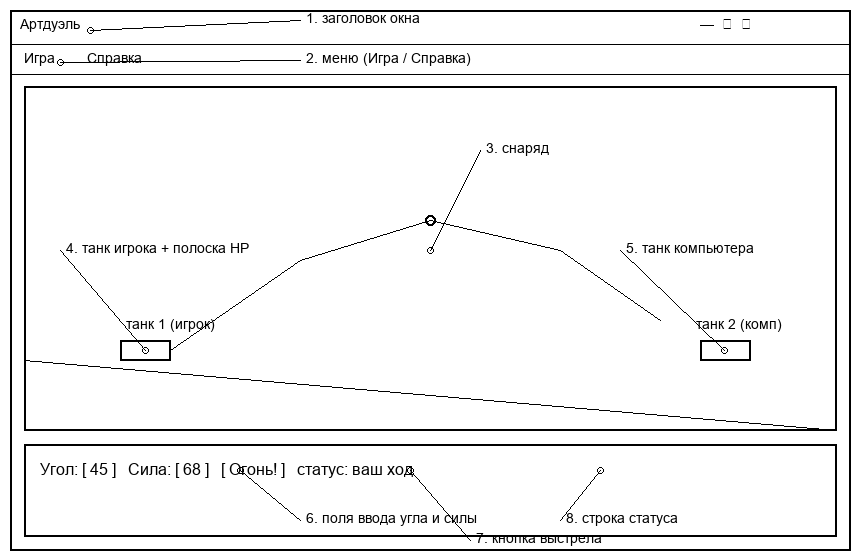
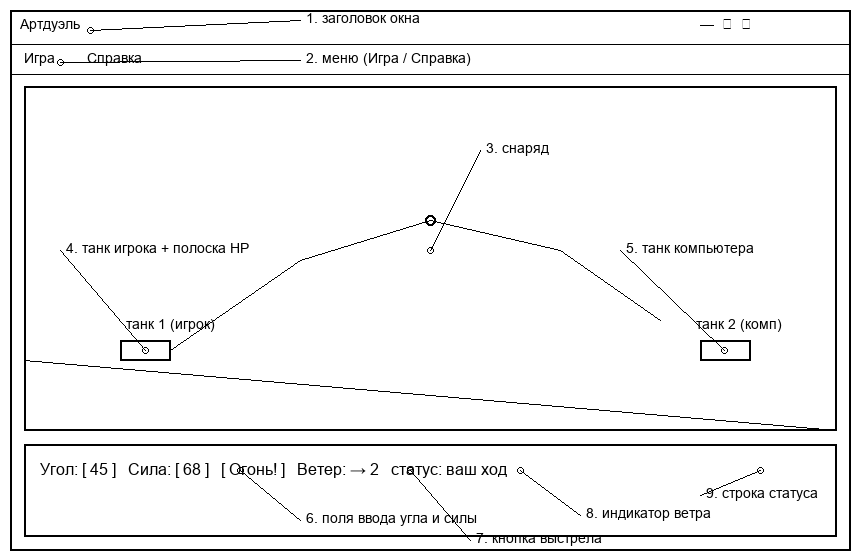
добавил ветер, след снаряда и анимацию взрыва

Changed region(s): [[0.3326, 0.8196, 0.6047, 0.85], [0.8163, 0.85, 0.9372, 0.9107], [0.6349, 0.9107, 0.8163, 0.9411]]

diff --git a/main.py b/main.py
@@ -53,6 +53,8 @@ class Artduel:
         self.sila_ent.pack(side="left", padx=4)
         self.sila_ent.insert(0, "50")
         tk.Button(panel, text="Огонь!", command=self.vistrel).pack(side="left", padx=10)
+        self.veter_lbl = tk.Label(panel, text="Ветер:", fg="#555")
+        self.veter_lbl.pack(side="left", padx=6)
         self.status = tk.Label(panel, text="Ваш ход", fg="#225522")
         self.status.pack(side="left", padx=10)
 
@@ -60,6 +62,8 @@ class Artduel:
         self.hp2 = 100
         self.x1 = X1             # стартовые позиции танков
         self.x2 = X2
+        self.veter = 0           # снос снаряда в сторону каждый тик
+        self.pokaz_veter()
         self.hod_igroka = True   # чей сейчас ход
         self.snar = None         # летящий снаряд на канвасе
         self.narisovat()
@@ -113,25 +117,36 @@ class Artduel:
     def dvizh(self, vx, vy, vpravo):
         c = self.canvas
         x1, y1, x2, y2 = c.coords(self.snar)
-        x = (x1 + x2) / 2 + vx
+        x = (x1 + x2) / 2 + vx + self.veter * 0.12
         y = (y1 + y2) / 2 + vy
         vy += G
         c.coords(self.snar, x - 4, y - 4, x + 4, y + 4)
+        # точки-след за снарядом, гаснут сами через 700 мс
+        sled = c.create_oval(x - 1, y - 1, x + 1, y + 1, fill="#555", outline="")
+        self.root.after(700, lambda: c.delete(sled))
         tx = self.x2 if vpravo else self.x1
         if abs(x - tx) < 28 and y > ZEML - 30:
-            self.popal(vpravo)
+            self.popal(vpravo, x, y)
             return
         if y >= ZEML - 4 or x < -20 or x > W + 20:
             self.mimo(vpravo)
             return
         self.root.after(20, lambda: self.dvizh(vx, vy, vpravo))
 
-    def popal(self, vpravo):
+    def vzriv(self, x, y):
+        # три круга разъезжаются и исчезают - простая анимация взрыва
+        for r, cv in ((8, "#ffdd44"), (15, "#ff8830"), (24, "#cc3311")):
+            kr = self.canvas.create_oval(x - r, y - r, x + r, y + r,
+                                         outline=cv, width=3)
+            self.root.after(400, lambda k=kr: self.canvas.delete(k))
+
+    def popal(self, vpravo, x=0, y=0):
         uron = random.randint(15, 35)
         if vpravo:
             self.hp2 = max(0, self.hp2 - uron)
         else:
             self.hp1 = max(0, self.hp1 - uron)
+        self.vzriv(x, y)
         self.canvas.delete(self.snar)
         self.snar = None
         self.narisovat()
@@ -153,10 +168,22 @@ class Artduel:
         self.status.config(text="Промах!", fg="#225522")
         self.sled_hod(vpravo)
 
+    def pokaz_veter(self):
+        # ветер меняется после каждого выстрела и сносит снаряд в сторону
+        self.veter = random.randint(-4, 4)
+        if self.veter > 0:
+            strelka = "→ " + str(self.veter)
+        elif self.veter < 0:
+            strelka = "← " + str(-self.veter)
+        else:
+            strelka = "штиль"
+        self.veter_lbl.config(text="Ветер: " + strelka)
+
     def peredvinut(self):
         # после выстрела танки меняют позиции - прицелиться по памяти не выйдет
         self.x1 = random.randint(60, W // 2 - 60)
         self.x2 = random.randint(W // 2 + 60, W - 60)
+        self.pokaz_veter()
         self.narisovat()
 
     def sled_hod(self, vpravo):
@@ -180,7 +207,7 @@ class Artduel:
             # грубо симулируем полёт и смотрим куда упадёт
             x, y, cx, cy = self.x2, ZEML - 34, vx, vy
             while y < ZEML and 0 < x < W:
-                x += cx
+                x += cx + self.veter * 0.12
                 y += cy
                 cy += G
             if best is None or abs(x - self.x1) < best[0]:
@@ -197,6 +224,7 @@ class Artduel:
         self.hp2 = 100
         self.x1 = X1
         self.x2 = X2
+        self.pokaz_veter()
         self.hod_igroka = True
         if self.snar:
             self.canvas.delete(self.snar)

diff --git a/README.md b/README.md
@@ -2,8 +2,9 @@
 
 Игра на Python + tkinter: поединок двух танков. Вводишь угол и силу -
 стреляешь по танку компьютера, он отвечает. После каждого выстрела оба танка
-случайно меняют позиции, так что фигачить одним и тем же углом не выйдет.
-У кого первым кончится HP - тот проиграл.
+случайно меняют позиции, а ветер (тоже меняется каждый ход) сносит снаряд в
+сторону - так что фигачить одним и тем же углом не выйдет. У кого первым
+кончится HP - тот проиграл.
 
 Запуск: `python main.py`
 
